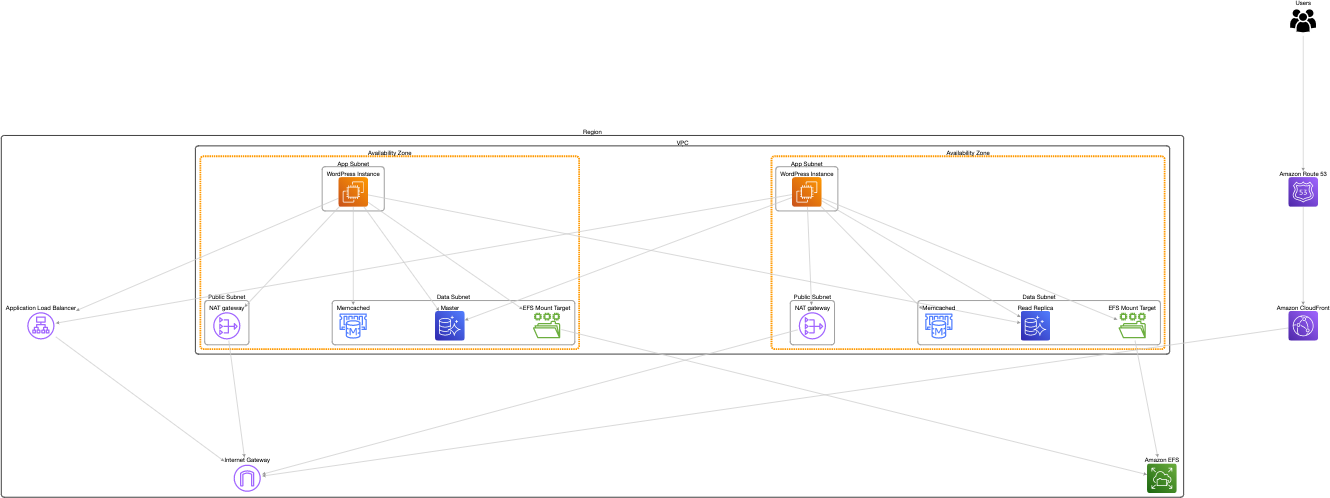
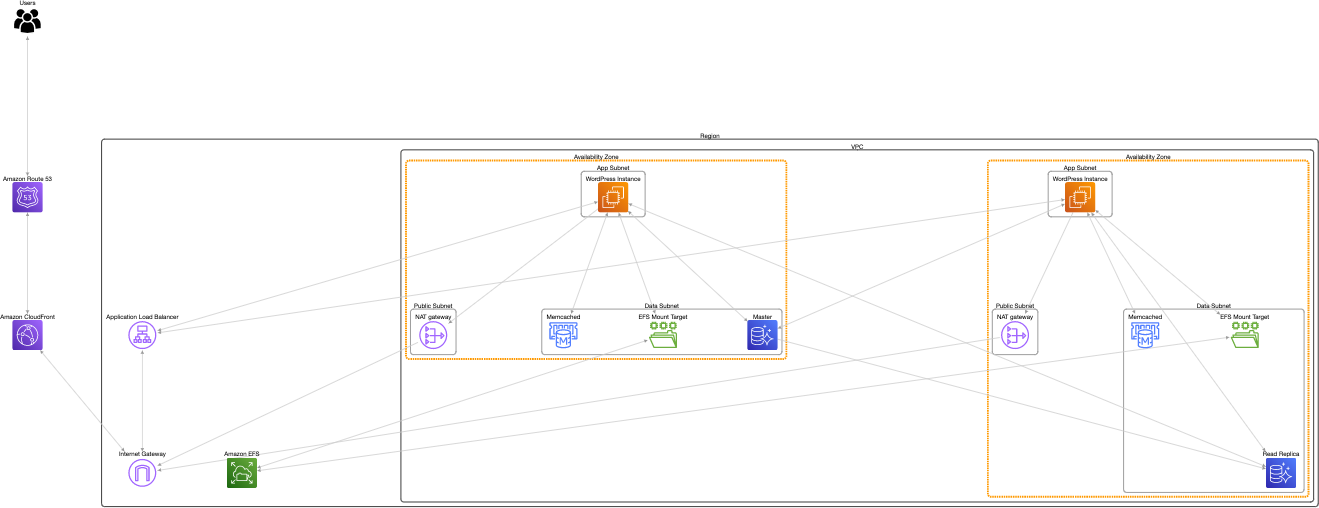
Refined wordpress example

diff --git a/src/examples.html b/src/examples.html
@@ -101,15 +101,15 @@ diagram "wordpress" [direction=tb] {
   aws.route53 dns [label="Amazon Route 53"];
   aws.cloudfront cf [label="Amazon CloudFront"];
 
-  group region [label="Region",opacity=0,style=solid,stroke=black] {
+  group region [label="Region",opacity=0,style=solid,stroke=black,width=2] {
     aws.vpcInternetGateway igw [label="Internet Gateway"];
     aws.alb alb [label="Application Load Balancer"];
     aws.efs efs [label="Amazon EFS"];
 
-    alb -> igw;
+    alb <-> igw;
 
-    group vpc [label="VPC",opacity=0,style=solid,stroke=black] {
-      group az1 [label="Availability Zone",opacity=0,stroke="rgb(255,153,0)"] {
+    group vpc [label="VPC",opacity=0,style=solid,stroke=black,width=2] {
+      group az1 [label="Availability Zone",opacity=0,stroke="rgb(255,153,0)",width=5] {
         group publicSubnet1 [label="Public Subnet",opacity=0,style=solid,stroke=black] {
           aws.vpcNatGateway nat1 [label="NAT gateway"];
         }
@@ -125,12 +125,12 @@ diagram "wordpress" [direction=tb] {
         }
 
         app1 -> nat1;
-        app1 -> cache1;
-        app1 -> master;
-        app1 -> efs1;
+        app1 <-> cache1;
+        app1 <-> master;
+        app1 <-> efs1;
       }
 
-      group az2 [label="Availability Zone",opacity=0,stroke="rgb(255,153,0)"] {
+      group az2 [label="Availability Zone",opacity=0,stroke="rgb(255,153,0)",width=5] {
         group publicSubnet2 [label="Public Subnet",opacity=0,style=solid,stroke=black] {
           aws.vpcNatGateway nat2 [label="NAT gateway"];
         }
@@ -146,23 +146,24 @@ diagram "wordpress" [direction=tb] {
         }
 
         app2 -> nat2;
-        app2 -> cache2;
-        app2 -> replica;
-        app2 -> efs2;
+        app2 <-> cache2;
+        app2 <-> replica;
+        app2 <-> efs2;
       }
 
       nat1 -> igw;
       nat2 -> igw;
-      app1 -> alb;
-      app2 -> alb;
-      efs1 -> efs;
-      efs2 -> efs;
-      app1 -> replica;
-      app2 -> master;
+      app1 <-> alb;
+      app2 <-> alb;
+      efs1 <-> efs;
+      efs2 <-> efs;
+      app1 <-> replica;
+      app2 <-> master;
+      master -> replica;
     }
   }
 
-  users -> dns -> cf -> igw;
+  users <-> dns <-> cf <-> igw;
 }</pre>
     </article>
   </div>

diff --git a/src/documentation.html b/src/documentation.html
@@ -112,7 +112,7 @@ diagram "example" [direction=lr] {
 
           <p>
             A link is a directed connection between nodes and groups. Link are declared with the
-            <code>-></code>, <code><-></code>, <code>=></code>, <code><=></code> symbols. The second denotes a bidirectional link, the is a convenience notation to link a node with
+            <code>-></code>, <code><-></code>, <code>=></code>, <code><=></code> symbols. The second denotes a bidirectional link, the <code>=></code> is a convenience notation to link a node with
             all the children of a group, see below. For convenience a chain of links can be declared with
             <code>DNS -> cf -> load_balancer</code>.
           </p>
